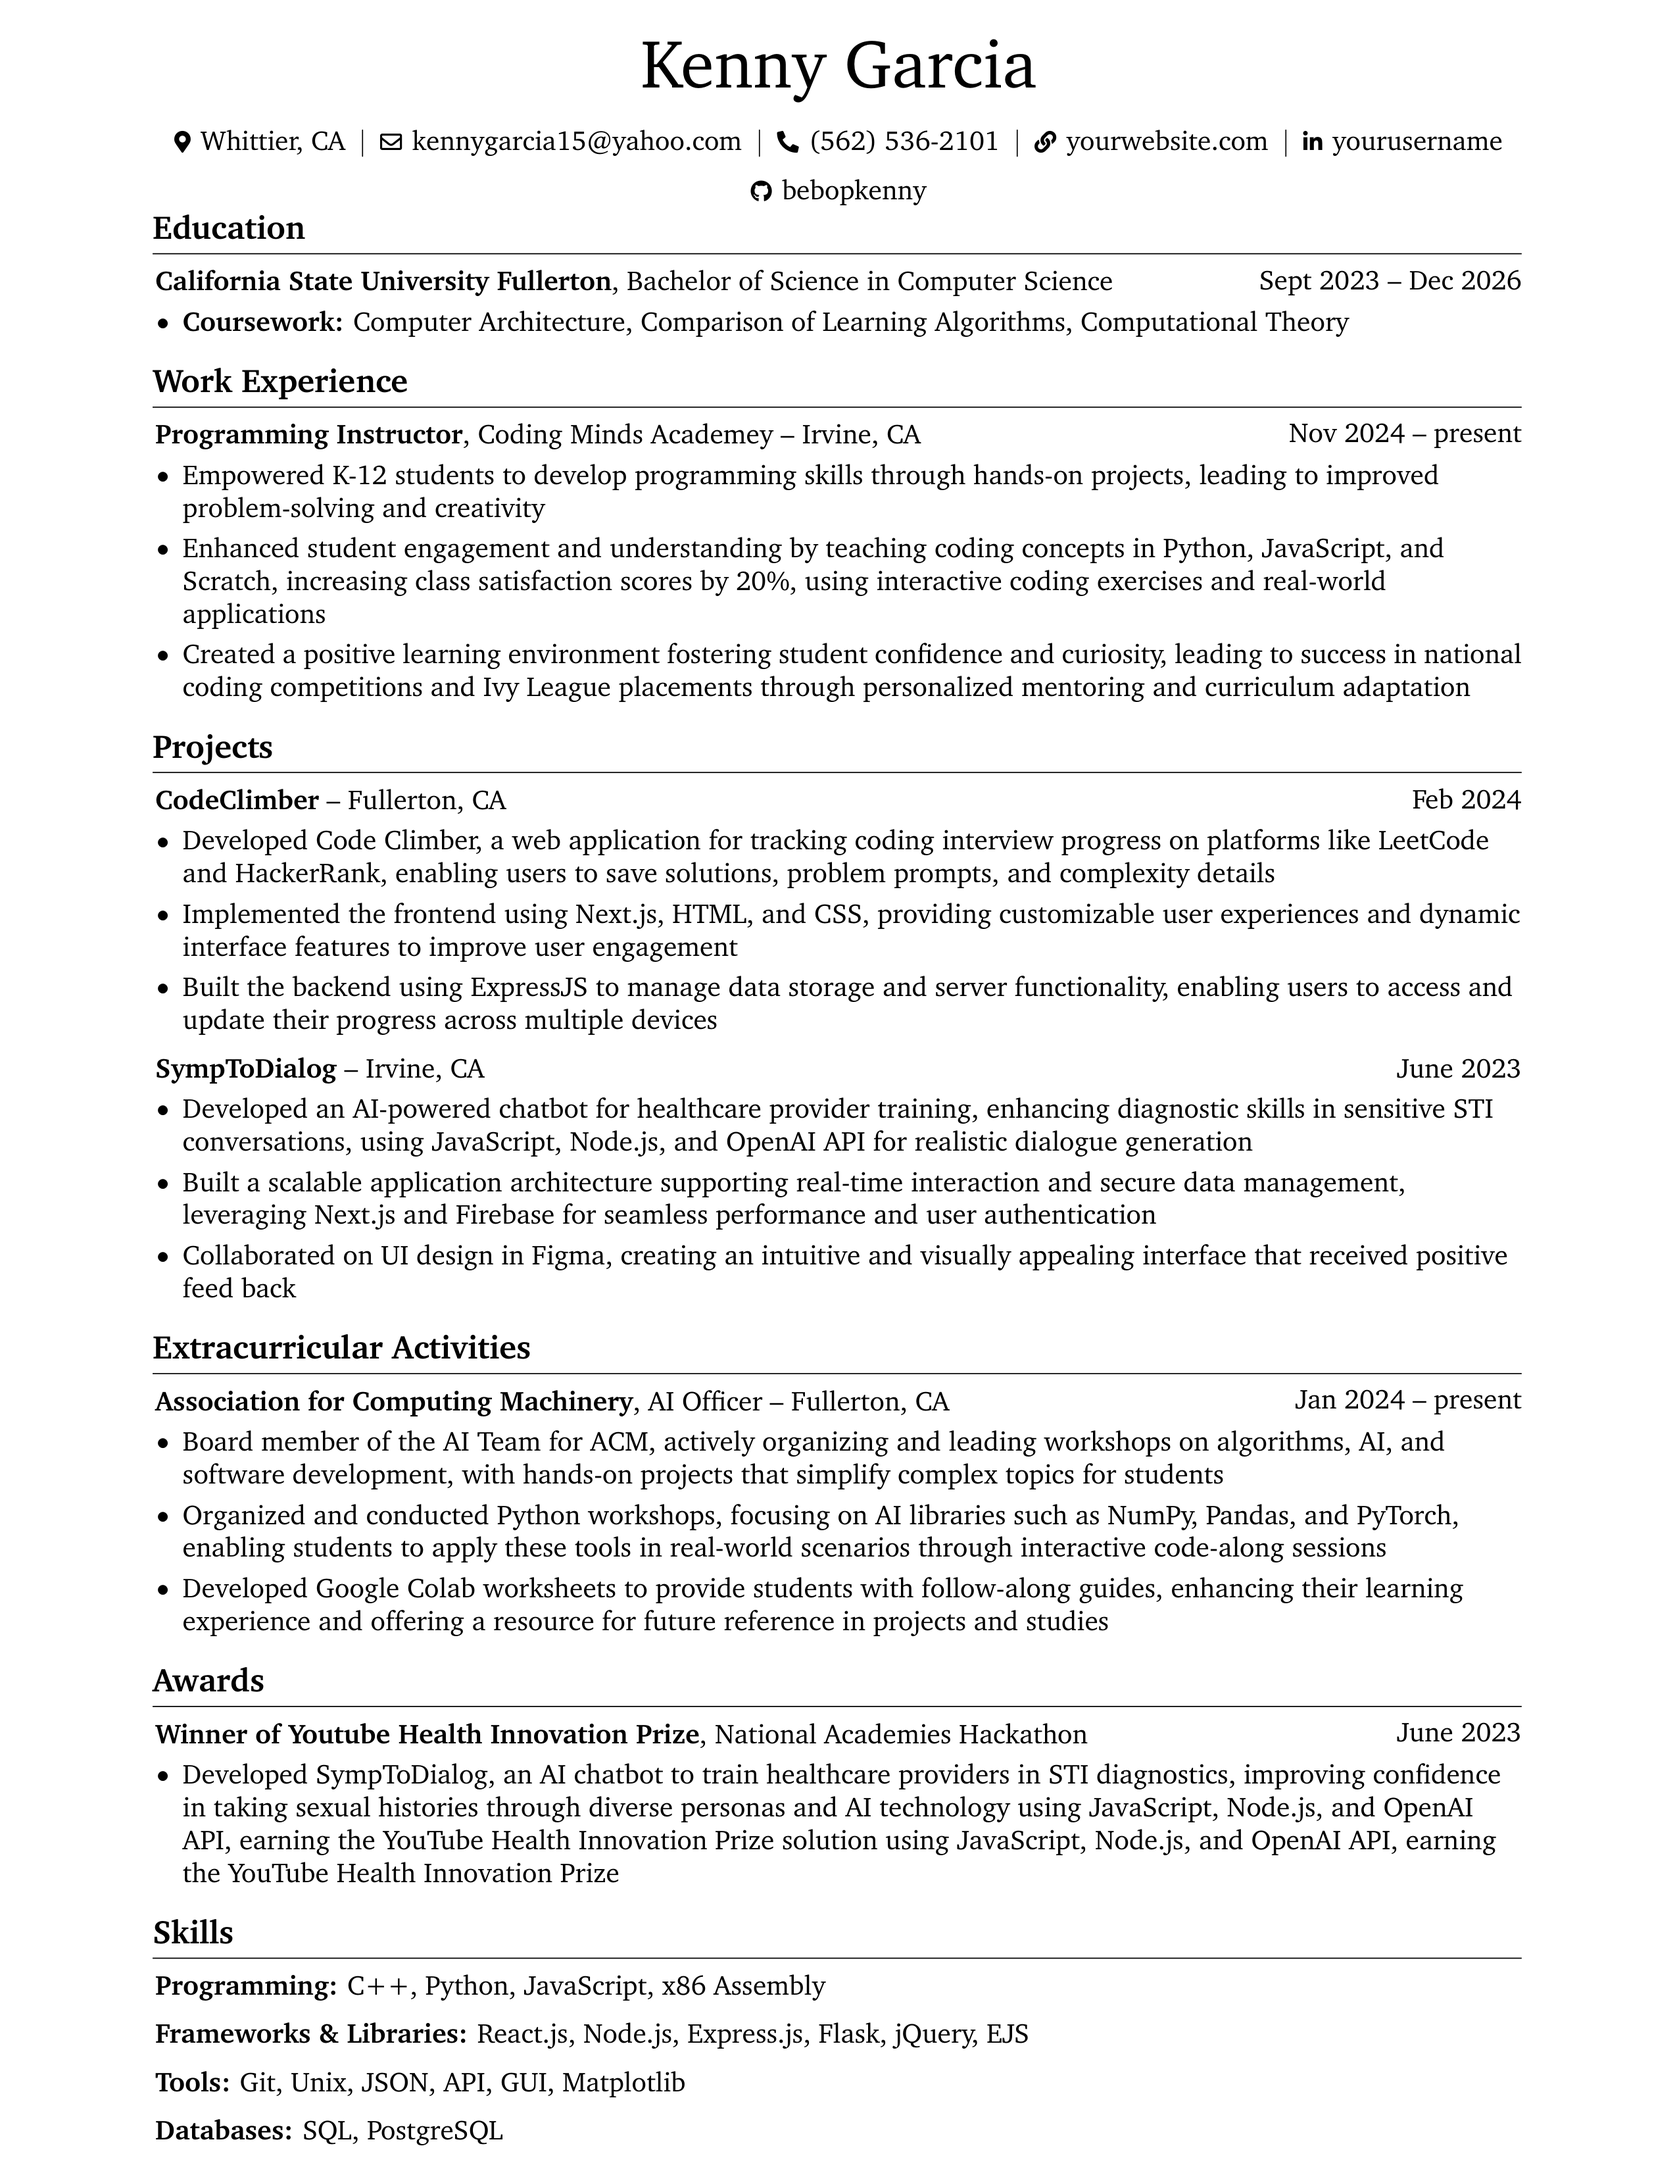
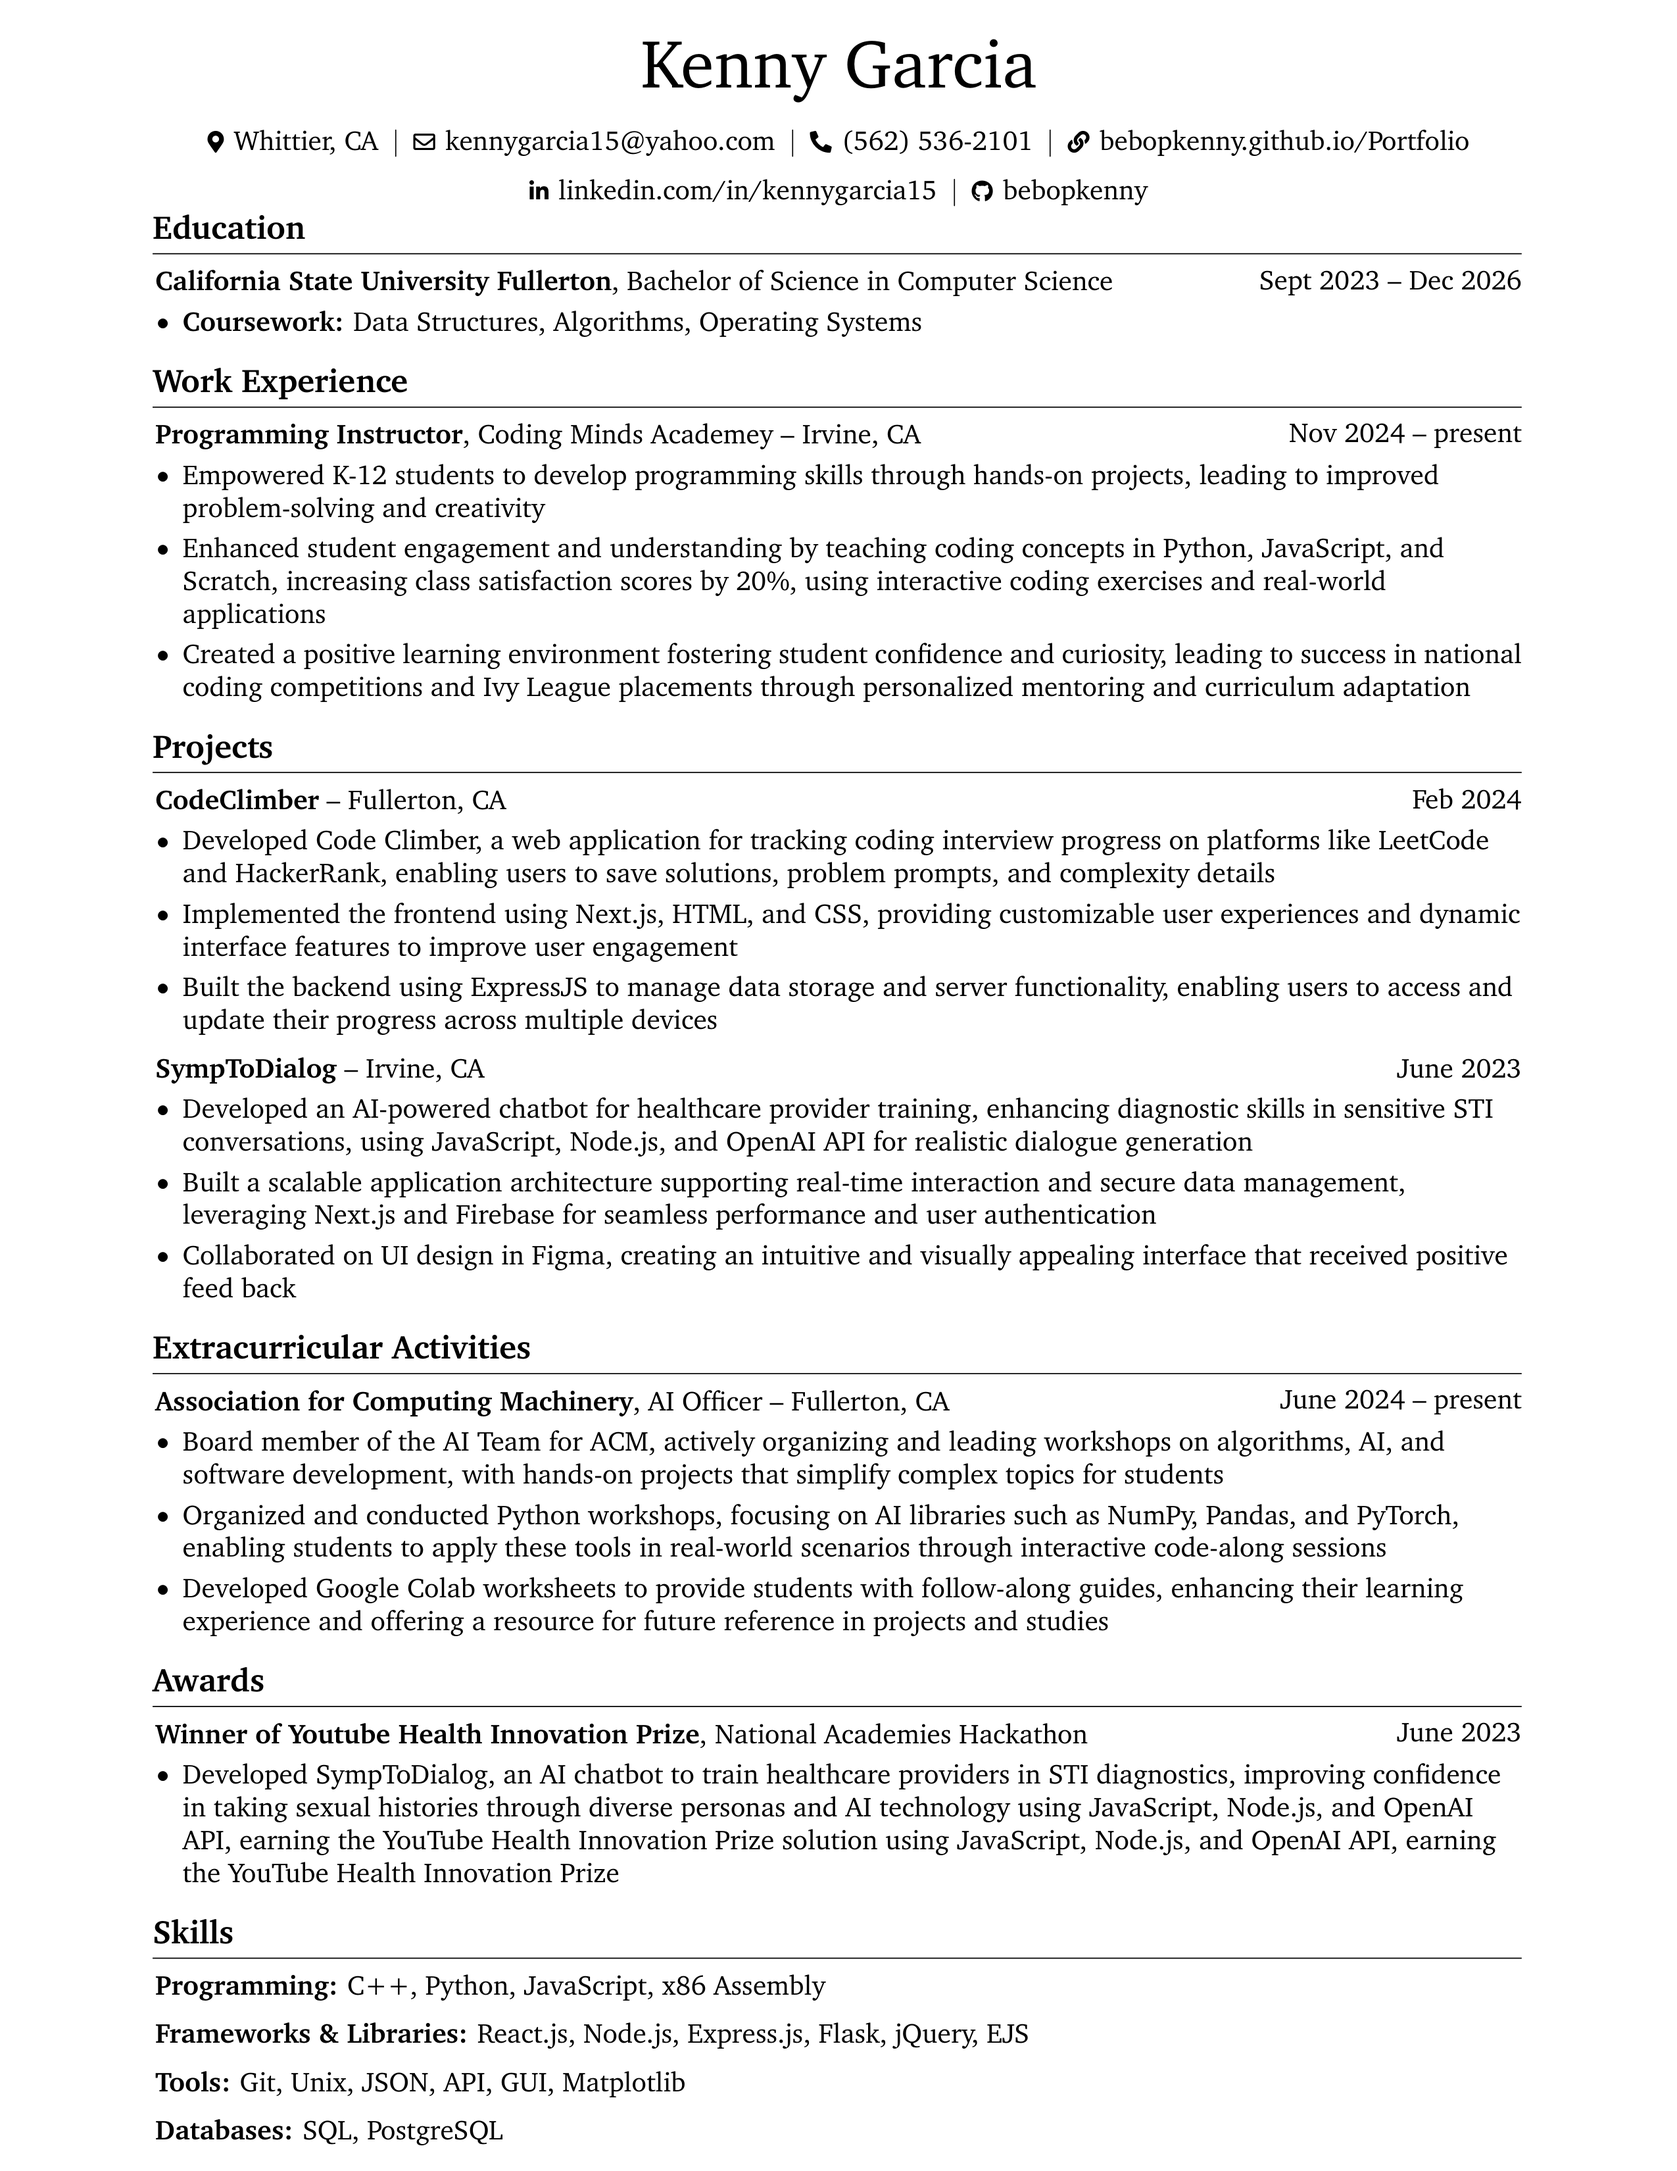
Minor change

Changed region(s): [[0.2478, 0.0624, 0.8984, 0.0936], [0.2169, 0.1248, 0.6196, 0.1561], [0.1239, 0.0624, 0.2169, 0.0936]]

diff --git a/rendercv_output/Kenny_Garcia_CV.html b/rendercv_output/Kenny_Garcia_CV.html
@@ -36,15 +36,15 @@
         <li>Phone: +1 562 536 2101</li>
         <li>Email: <a href="mailto:kennygarcia15@yahoo.com">kennygarcia15@yahoo.com</a></li>
         <li>Location: Whittier, CA</li>
-        <li>Website: <a href="https://yourwebsite.com/">yourwebsite.com</a></li>
-        <li>LinkedIn: <a href="https://linkedin.com/in/yourusername">yourusername</a></li>
+        <li>Website: <a href="https://bebopkenny.github.io/Portfolio/">bebopkenny.github.ioPortfolio</a></li>
+        <li>LinkedIn: <a href="https://linkedin.com/in/linkedin.com/in/kennygarcia15">linkedin.com/in/kennygarcia15</a></li>
         <li>GitHub: <a href="https://github.com/bebopkenny">bebopkenny</a></li>
         </ul>
         <h1>Education</h1>
         <h2>California State University Fullerton, Bachelor of Science in Computer Science</h2>
         <ul>
         <li>Sept 2023 – Dec 2026</li>
-        <li><strong>Coursework:</strong> Computer Architecture, Comparison of Learning Algorithms, Computational Theory</li>
+        <li><strong>Coursework:</strong> Data Structures, Algorithms, Operating Systems</li>
         </ul>
         <h1>Work Experience</h1>
         <h2>Coding Minds Academey, Programming Instructor</h2>
@@ -75,7 +75,7 @@
         <h1>Extracurricular Activities</h1>
         <h2>AI Officer, Association for Computing Machinery</h2>
         <ul>
-        <li>Jan 2024 – present</li>
+        <li>June 2024 – present</li>
         <li>Fullerton, CA</li>
         <li>Board member of the AI Team for ACM, actively organizing and leading workshops on algorithms, AI, and software development, with hands-on projects that simplify complex topics for students</li>
         <li>Organized and conducted Python workshops, focusing on AI libraries such as NumPy, Pandas, and PyTorch, enabling students to apply these tools in real-world scenarios through interactive code-along sessions</li>

diff --git a/rendercv_output/Kenny_Garcia_CV.tex b/rendercv_output/Kenny_Garcia_CV.tex
@@ -178,11 +178,11 @@
         \kern 5.0 pt%
         \AND%
         \kern 5.0 pt%
-        \mbox{\hrefWithoutArrow{https://yourwebsite.com/}{{\footnotesize\faLink}\hspace*{0.13cm}yourwebsite.com}}%
+        \mbox{\hrefWithoutArrow{https://bebopkenny.github.io/Portfolio/}{{\footnotesize\faLink}\hspace*{0.13cm}bebopkenny.github.io/Portfolio}}%
         \kern 5.0 pt%
         \AND%
         \kern 5.0 pt%
-        \mbox{\hrefWithoutArrow{https://linkedin.com/in/yourusername}{{\footnotesize\faLinkedinIn}\hspace*{0.13cm}yourusername}}%
+        \mbox{\hrefWithoutArrow{https://linkedin.com/in/linkedin.com/in/kennygarcia15}{{\footnotesize\faLinkedinIn}\hspace*{0.13cm}linkedin.com/in/kennygarcia15}}%
         \kern 5.0 pt%
         \AND%
         \kern 5.0 pt%
@@ -205,7 +205,7 @@
         \vspace{0.10 cm}
         \begin{onecolentry}
             \begin{highlights}
-                \item \textbf{Coursework:} Computer Architecture, Comparison of Learning Algorithms, Computational Theory
+                \item \textbf{Coursework:} Data Structures, Algorithms, Operating Systems
             \end{highlights}
         \end{onecolentry}
 
@@ -279,7 +279,7 @@
 
         
         \begin{twocolentry}{
-            Jan 2024 – present
+            June 2024 – present
         }
             \textbf{Association for Computing Machinery}, AI Officer -- Fullerton, CA\end{twocolentry}
 

diff --git a/rendercv_output/Kenny_Garcia_CV.md b/rendercv_output/Kenny_Garcia_CV.md
@@ -3,8 +3,8 @@
 - Phone: +1 562 536 2101
 - Email: [kennygarcia15@yahoo.com](mailto:kennygarcia15@yahoo.com)
 - Location: Whittier, CA
-- Website: [yourwebsite.com](https://yourwebsite.com/)
-- LinkedIn: [yourusername](https://linkedin.com/in/yourusername)
+- Website: [bebopkenny.github.ioPortfolio](https://bebopkenny.github.io/Portfolio/)
+- LinkedIn: [linkedin.com/in/kennygarcia15](https://linkedin.com/in/linkedin.com/in/kennygarcia15)
 - GitHub: [bebopkenny](https://github.com/bebopkenny)
 
 
@@ -13,7 +13,7 @@
 ## California State University Fullerton, Bachelor of Science in Computer Science
 
 - Sept 2023 – Dec 2026
-- **Coursework:** Computer Architecture, Comparison of Learning Algorithms, Computational Theory
+- **Coursework:** Data Structures, Algorithms, Operating Systems
 
 # Work Experience
 
@@ -47,7 +47,7 @@
 
 ## AI Officer, Association for Computing Machinery
 
-- Jan 2024 – present
+- June 2024 – present
 - Fullerton, CA
 - Board member of the AI Team for ACM, actively organizing and leading workshops on algorithms, AI, and software development, with hands-on projects that simplify complex topics for students
 - Organized and conducted Python workshops, focusing on AI libraries such as NumPy, Pandas, and PyTorch, enabling students to apply these tools in real-world scenarios through interactive code-along sessions
